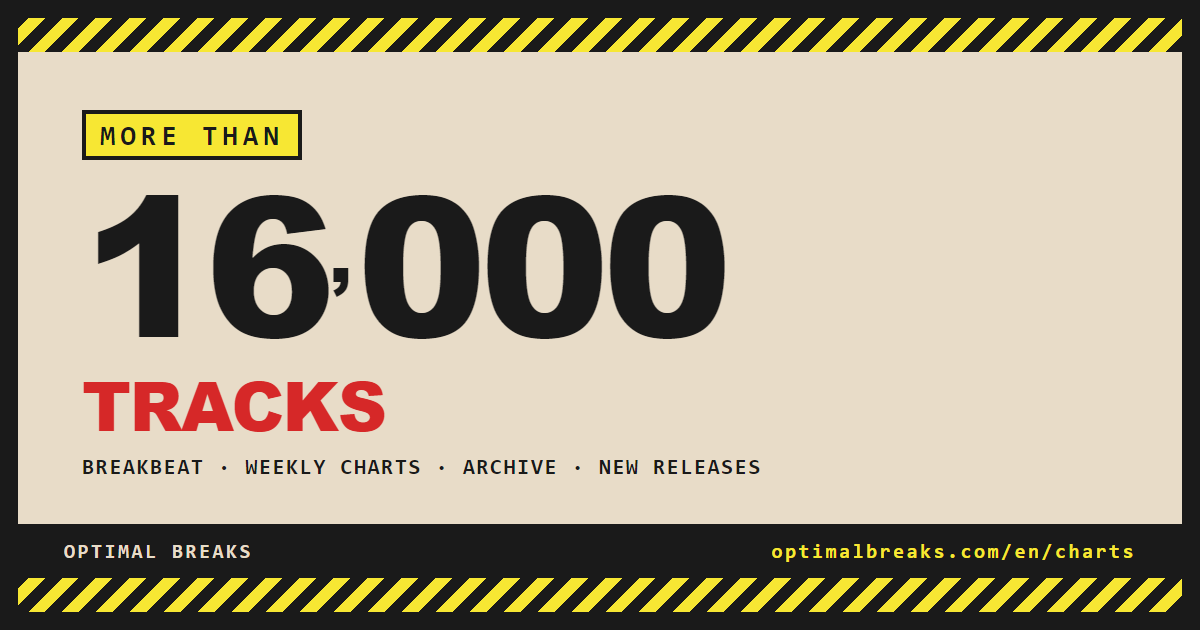
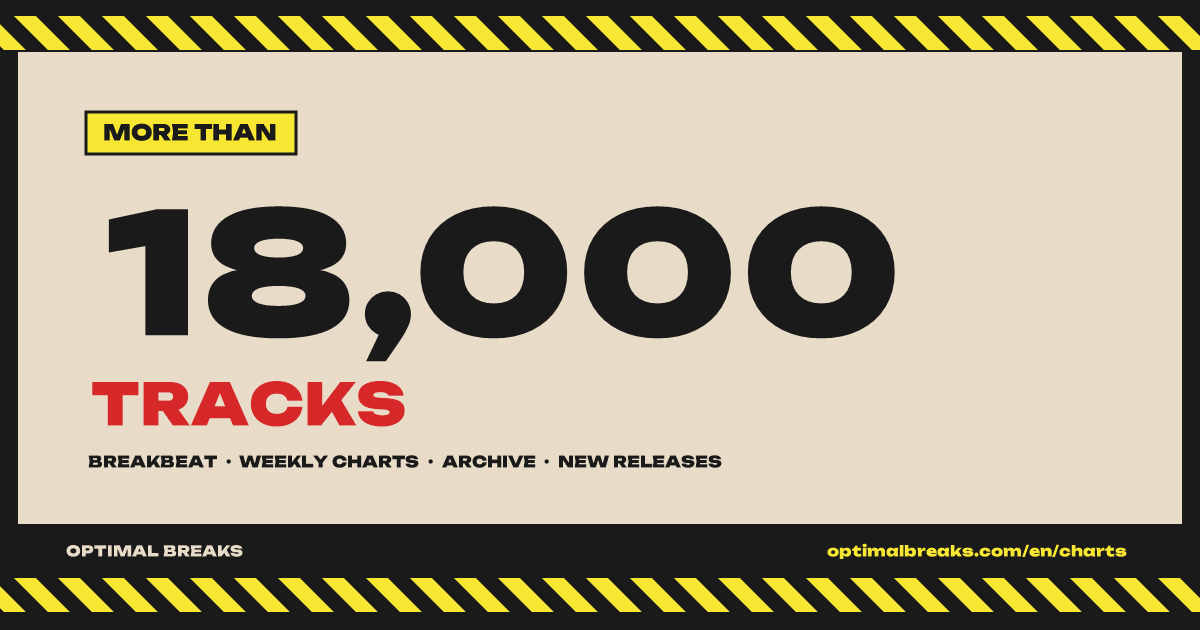
El catalogo publico ya dice mas de 18.000 temas.

diff --git a/src/lib/og-section-images.ts b/src/lib/og-section-images.ts
@@ -2,7 +2,7 @@
 // OPTIMAL BREAKS — Open Graph estático por sección (listados)
 // Imágenes en public/images/opengraph/sections/*.png
 // Generación: npm run og:sections (arte IA) · npm run og:screenshot (mixes)
-// charts-catalog.png no sale de esos scripts: es la tarjeta «más de 16.000».
+// charts-catalog.png no sale de esos scripts: es la tarjeta «más de 18.000».
 // ============================================
 
 import type { Locale } from '@/lib/i18n-config'
@@ -29,8 +29,8 @@ export type SectionOgKey = (typeof SECTION_OG_KEYS)[number]
 
 /**
  * Archivo por sección (about/events: arte manual `*-og-alternate.png`; mixes: screenshot).
- * charts: tarjeta de catálogo (`charts-catalog.png`). Suelo editorial medido el 29 sep 2026:
- * 16.354 temas públicos (semanas + archivo). La tarjeta dice «más de 16.000»; subir el suelo al cruzar 17.000.
+ * charts: tarjeta de catálogo (`charts-catalog.png`). Suelo editorial el 9 oct 2026:
+ * más de 18.000 temas públicos (semanas + archivo). Subir el suelo al cruzar 19.000.
  */
 const SECTION_OG_FILE: Record<SectionOgKey, string> = {
   artists: 'artists.png',
@@ -97,8 +97,8 @@ const ALTS: Record<SectionOgKey, { es: string; en: string }> = {
     en: 'Optimal Breaks — Your favorite breaks sessions page',
   },
   charts: {
-    es: 'Optimal Breaks — más de 16.000 canciones de breakbeat',
-    en: 'Optimal Breaks — more than 16,000 breakbeat tracks',
+    es: 'Optimal Breaks — más de 18.000 canciones de breakbeat',
+    en: 'Optimal Breaks — more than 18,000 breakbeat tracks',
   },
   top100: {
     es: 'Optimal Breaks — Top 100: las mejores canciones de breakbeat de la historia',

diff --git a/src/app/[lang]/charts/page.tsx b/src/app/[lang]/charts/page.tsx
@@ -31,7 +31,7 @@ function chartsSupabase() {
 
 const CHARTS_KEYWORDS: Record<Locale, string[]> = {
   es: [
-    '16000 canciones breakbeat',
+    '18000 canciones breakbeat',
     'archivo breakbeat',
     'radio de breakbeat online',
     'breakbeat radio',
@@ -41,7 +41,7 @@ const CHARTS_KEYWORDS: Record<Locale, string[]> = {
     'selecciones de archivo breakbeat',
   ],
   en: [
-    '16000 breakbeat tracks',
+    '18000 breakbeat tracks',
     'breakbeat archive',
     'online breakbeat radio',
     'breakbeat radio',

diff --git a/docs/README.md b/docs/README.md
@@ -83,6 +83,6 @@ Este archivo (**`docs/README.md`**) es solo índice y auditoría; no duplica pro
 - **Tira de eventos en la home:** hasta **4** filas con `date_start` ≥ hoy (orden ASC); si no hay datos, fallback por fecha DESC y luego placeholders estáticos — `src/app/[lang]/page.tsx`. Resumido en **`README.md`** / **`README.es.md`** (misma sección que la timeline).
 - **Listado `/events` (`EventsExplorer`):** pie **semáforo** (pasado `var(--red)` + texto blanco; próximo `var(--yellow)` + `var(--ink)`), hover con `color-mix`, franja detrás del cartel alineada al estado, tarjeta **`group/link`**, zoom del cartel vía **`CardThumbnail`** con **`groupHoverGroup="link"`**, pies con altura homogénea en la rejilla; **vista calendario anual** con el mismo criterio por día (`calendar_legend_past` / `calendar_legend_upcoming`); **clic en día** → modal resumen + enlace a ficha (`calendar_modal_*`). Detalle en **`README.md`** (*Directory listing views*).
 - **Ficha de evento (`/[lang]/events/[slug]`):** CTA ancha en el hero si hay URL de compra, el evento no está pasado por calendario y (`event_type === 'upcoming'` **o** enlace **MonsterTicket** en `tickets_url` / `website`); prioridad de URL y copy “Compra de entradas” / “Buy tickets” para MonsterTicket — ver **`README.md`** (*Directory listing views*).
-- **OG por sección (mixes / charts):** mixes sigue en **`public/images/opengraph/sections/mixes-screenshot.png`**. Charts (29 sep 2026) es la tarjeta **`charts-catalog.png`** / **`charts-catalog-en.png`** (1200×630): «más de 16.000» canciones (total público medido: 16.354; subir el suelo al cruzar 17.000). Metadatos en `seo.charts` / `seo.mixes`; rutas en **`src/lib/og-section-images.ts`**. Un `?play=` de tema no usa esta tarjeta: lleva la carátula del tema.
+- **OG por sección (mixes / charts):** mixes sigue en **`public/images/opengraph/sections/mixes-screenshot.png`**. Charts (9 oct 2026) es la tarjeta **`charts-catalog.png`** / **`charts-catalog-en.png`** (1200×630): «más de 18.000» canciones (suelo público: más de 18.000; subir el suelo al cruzar 19.000). Metadatos en `seo.charts` / `seo.mixes`; rutas en **`src/lib/og-section-images.ts`**. Un `?play=` de tema no usa esta tarjeta: lleva la carátula del tema.
 - **Compartir canción con modal «Toca para escuchar» (`TrackShareButton`):** botón 🔗 por fila en New Releases, archivo, Mis Tracks y el Top 10 de artista/sello. Los 40 Breaks ya no se listan; un enlace antiguo `?play=chart:` sigue abriendo el modal. Usa `navigator.share` en móvil con fallback a `clipboard` y copia URLs canónicas del tipo `/[lang]/charts?week=<YYYY-MM-DD>&play=<chart|featured>:<uuid>` o `/[lang]/<artists|labels>/<slug>?play=beatport:<beatportId>`. Helpers en **`src/lib/share-track.ts`** (`buildTrackSharePath`, `buildBeatportSharePath`, `parsePlayParam`). `ChartView` y `BeatportTopTracks` detectan el `?play=` al montar, abren el acordeón correcto, hacen scroll a la fila, la destacan y **arman el modal compartido `TapToPlayOverlay`** (`src/components/TapToPlayOverlay.tsx`: carátula + título + artista + ▶); es el **tap del receptor** quien lanza `playPreviewQueue` — **regla de producto (sep 2026): los enlaces compartidos NUNCA hacen autoplay** (el patrón antiguo «intenta play y modal si falla» no sacaba el modal en móvil: WebKit rechaza con `AbortError`, no `NotAllowedError`). Además `generateMetadata` de `charts/page.tsx`, `artists/[slug]/page.tsx` y `labels/[slug]/page.tsx` sobreescribe OG con la portada + título del track cuando el link lleva `?play`, para que WhatsApp/X muestren la canción concreta. El buscador ⌘K (`?play=1`, gesto en sesión) sí auto-arranca; si el navegador lo bloquea (`NotAllowedError`), `DeckAudioProvider` marca `previewBlocked` y pinta su overlay **`PreviewAutoplayOverlay`** como respaldo. La carátula del track en esa tarjeta usa **`next/image`** (ruta `/_next/image`), no `<img>` directo, para esquivar el **hotlink block** de `geo-media.beatport.com` (403 con Referer ajeno); el `TapToPlayOverlay` compartido usa `<img>` con lista de candidatas (proxy `/api/og/image-proxy` primero). Si la imagen no carga (`onError`), placeholder `♪`. Los vinilos mantienen su enlace externo (Discogs/YouTube) por limitaciones del iframe. Detalle en **`docs/USER_ENGAGEMENT.md`** (sección *Track-level deep-linking*).
 - **Buscador global (⌘K / Ctrl+K):** `CommandPalette` + API **`src/app/api/search/route.ts`** consultan artistas, **tracks en `chart_featured_tracks` y `chart_vinyl_tracks`** (no `chart_tracks`), el Top 10 de las fichas, mixes, eventos por lineup, sellos, escenas, posts y organizaciones. Búsqueda sobre columnas denormalizadas **`artist_names_text`** (migración **051**) y **`lineup_text`** (migración **052**, incluye `stages[].lineup`). **Dedupe de tracks** por `title|mix|primer_artista`, primero featured y luego YouTube. **Eventos pasados** se descartan salvo que todos los demás tipos estén vacíos (búsqueda claramente de evento); chip de fecha **amarillo** futuro / **rojo** pasado. **Carátulas** vía `next/image` (proxy); **mixes** usan foto del artista y fallback **`/images/disco_optimal_breaks.webp`**. Deep-links con `#chart-row-<id>`, `#chart-vinyl-row-<id>`, `#mix-<id>` + `?play=1` → `useEffect` en `ChartView`/`MixesExplorer` abre acordeón, hace scroll y lanza autoplay. Documentado en **`README.md`** (*Global search*) y **`README.es.md`** (*Buscador global*).

diff --git a/README.es.md b/README.es.md
@@ -630,7 +630,7 @@ Todas las imágenes OG son **PNG 1200 × 630** (tamaño recomendado por Meta, `1
 |------|---------------------|-------|
 | `/:lang/opengraph-image` | `DefaultOgImage` (`src/lib/DefaultOgImage.tsx`) | Tarjeta fanzine de marca — home + fallback cuando una página no sobreescribe OG. Es JSX de Satori: **todo `<div>` con varios hijos necesita `display: flex`** (sin eso la ruta devuelve 500). |
 | `/:lang/events/[slug]` (`generateMetadata`) | `events.og_image_url` o `image_url` | Igual que las fichas de artista: Facebook/WhatsApp bajan el JPEG de Storage. No hay `opengraph-image.tsx` por evento (esa ruta servía el placeholder «OB»). Olibass usa un 1200×630 con el flyer entero (logo y fecha, sin recorte). |
-| `/:lang/charts` (estática) | `public/images/opengraph/sections/charts-catalog.png` (`-en` en `/en`) | Tarjeta de catálogo: «más de 16.000» canciones de breakbeat (total público medido el 29 sep 2026: 16.354). El suelo se sube al cruzar 17.000. Textos en `seo.charts`. Un `?play=` de tema compartido sigue usando la carátula del tema. |
+| `/:lang/charts` (estática) | `public/images/opengraph/sections/charts-catalog.png` (`-en` en `/en`) | Tarjeta de catálogo: «más de 18.000» canciones de breakbeat (suelo público el 9 oct 2026: más de 18.000). El suelo se sube al cruzar 19.000. Textos en `seo.charts`. Un `?play=` de tema compartido sigue usando la carátula del tema. |
 | `/:lang/mixes` (estática) | `public/images/opengraph/sections/mixes-screenshot.png` | Captura de sección. Textos en `seo.mixes`. |
 | `/:lang/<charts\|artists\|labels>?play=…` | Sobreescritura dinámica en `generateMetadata` (ver **Compartir canción**) | Reescribe `og:title` / `og:description` / `og:image` al track compartido (artwork de Beatport). |
 

diff --git a/README.md b/README.md
@@ -294,7 +294,7 @@ All OG images are declared **1200 × 630 PNG** (Meta's recommended size, `1.91:1
 |-------|-----------|-------|
 | `/:lang/opengraph-image` | `DefaultOgImage` (`src/lib/DefaultOgImage.tsx`) | Branded fanzine card for the home + fallback for every page that doesn't override. Satori JSX — every container with multiple children sets `display: flex` (required by Satori; missing it causes a 500 on the route). |
 | `/:lang/events/[slug]` (`generateMetadata`) | `events.og_image_url` or `image_url` | Same as artist pages: Facebook/WhatsApp fetch the JPEG from Storage. No per-event `opengraph-image.tsx` (that route was serving the «OB» fallback). Olibass uses a 1200×630 contain of the full flyer (logo + date, no crop). |
-| `/:lang/charts` (static) | `public/images/opengraph/sections/charts-catalog.png` (`-en` on `/en`) | Catalog card: “more than 16,000” breakbeat tracks (public total measured 29 Sep 2026: 16,354). Floor bumps at 17,000. Copy: `seo.charts`. Shared-track `?play=` still uses the track artwork. |
+| `/:lang/charts` (static) | `public/images/opengraph/sections/charts-catalog.png` (`-en` on `/en`) | Catalog card: “more than 18,000” breakbeat tracks (public floor 9 Oct 2026: more than 18,000). Floor bumps at 19,000. Copy: `seo.charts`. Shared-track `?play=` still uses the track artwork. |
 | `/:lang/mixes` (static) | `public/images/opengraph/sections/mixes-screenshot.png` | Section screenshot. Copy key `seo.mixes`. |
 | `/:lang/<charts\|artists\|labels>?play=…` | `generateMetadata` overrides (see **Per-track sharing**) | Rewrites `og:title` / `og:description` / `og:image` to the shared track (Beatport `artwork_url`) when the query carries `?play=<source>:<id>`. |
 
